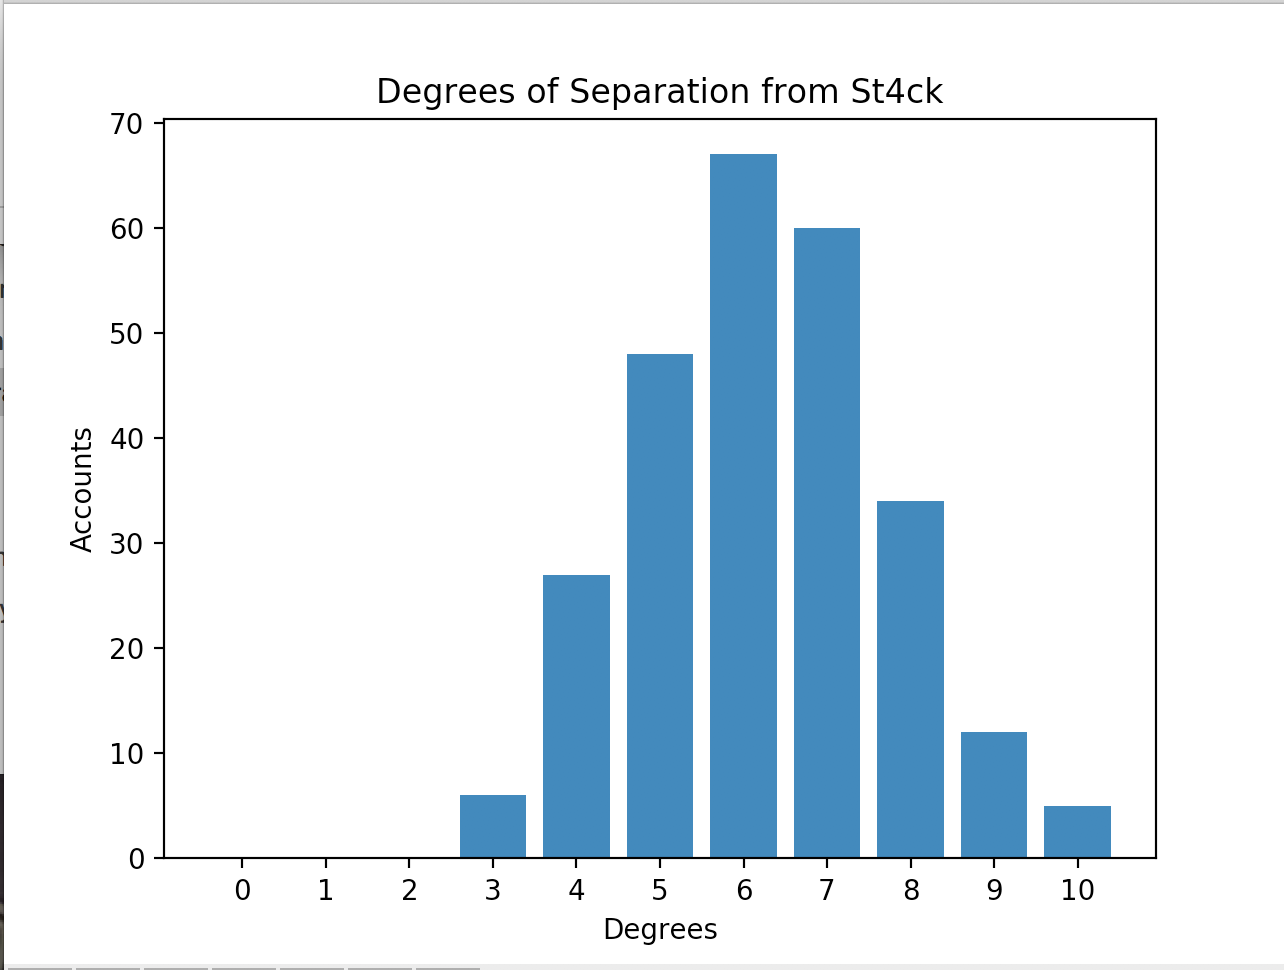
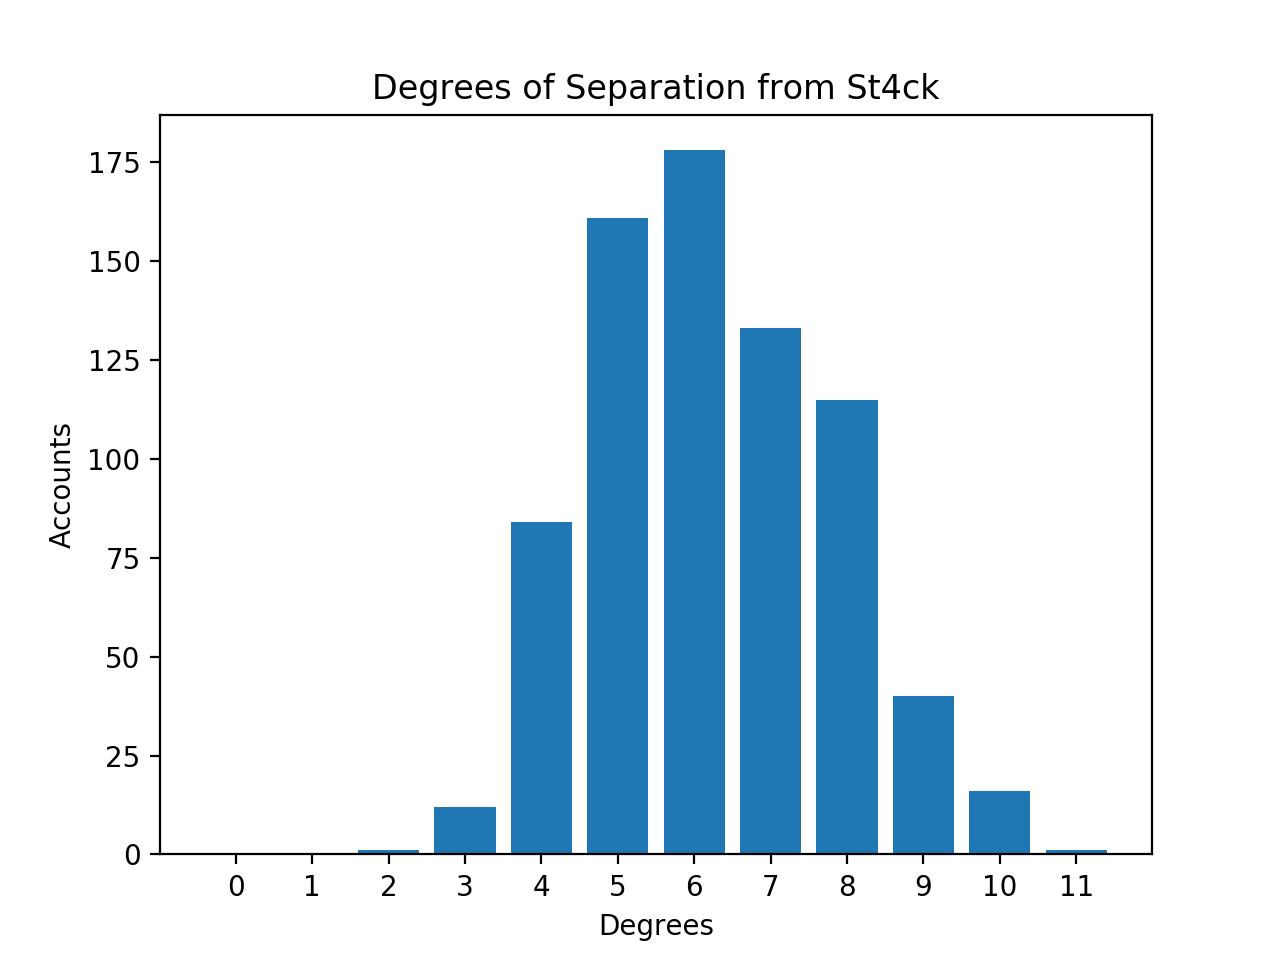
allow programs to be run on command line
charts with more data

diff --git a/st4ck.py b/st4ck.py
@@ -1,6 +1,8 @@
 import requests
 from bs4 import BeautifulSoup
 import random
+import json
+import sys
 
 
 def steamIdFormula(z, v=0x0110000100000000, y=1):
@@ -16,22 +18,21 @@ def steamIdFormula(z, v=0x0110000100000000, y=1):
     return z * 2 + v + y
 
 
-def analyzeOne():
+def analyzeOne(filename):
     """Analyze one steam account.
     Returns:
         Dictionary with:
         toSt4ck (bool) - whether the account led to St4ck or not
         degrees (int) - number of accounts tested
-        path - path of accounts tested
-        level - level of account analyzed
+        path (dict) - path of accounts tested and their levels
+        level (int) - level of account analyzed
     """
-    # Record accounts that deadend (don't lead to St4ck)
     while True:
         account = BeautifulSoup(requests.get("https://steamcommunity.com/profiles/{}".format(
             steamIdFormula(random.randint(1, 99999999)))).text, "html.parser")
 
         if not account.find(class_="actual_persona_name") or account.find(class_="profile_private_info") or not account.find(class_="friendBlockLinkOverlay"):
-            # Skip the user if unregistered or account is private or has no friends
+            # Ignore the account if unregistered, account is private or has no friends
             continue
 
         path = {}
@@ -44,6 +45,18 @@ def analyzeOne():
 
             if account.find(class_="actual_persona_name").text in path or not account.find(class_="friendBlockLinkOverlay"):
                 # Stop if we"re looping back to previous accounts or if we run into a private account
+                try:
+                    file_data = json.load(open(filename))
+                except FileNotFoundError:
+                    with open(filename, 'w') as file:
+                        file.write(json.dumps([]))
+                        file_data = []
+
+                with open(filename, 'w') as file:
+                    file.write(json.dumps(file_data + [{"toSt4ck": False,
+                                                        "degrees": len(path),
+                                                        "path": path,
+                                                        "level": level}]))
                 return {"toSt4ck": False,
                         "degrees": len(path),
                         "path": path,
@@ -52,7 +65,34 @@ def analyzeOne():
             path[account.find(class_="actual_persona_name").text] = int(
                 account.find(class_="friendPlayerLevelNum").text)
 
+        try:
+            file_data = json.load(open(filename))
+        except FileNotFoundError:
+            with open(filename, 'w') as file:
+                file.write(json.dumps([]))
+                file_data = []
+
+        with open(filename, 'w') as file:
+            file.write(json.dumps(file_data + [{"toSt4ck": False,
+                                                "degrees": len(path),
+                                                "path": path,
+                                                "level": level}]))
+
         return {"toSt4ck": True,
                 "degrees": len(path),
                 "path": path,
                 "level": level}
+
+
+if __name__ == '__main__':
+    if sys.argv[1:]:
+        try:
+            for x in range(int(sys.argv[1])):
+                analyzeOne(sys.argv[2] if sys.argv[2].endswith(
+                    '.json') else '{}.json'.format(sys.argv[2]))
+        except Exception:
+            print(
+                'Usage:\npython st4ck.py <# of accounts> <filename for data>')
+    else:
+        print(
+            'Usage:\npython st4ck.py <# of accounts> <filename for data>')

diff --git a/sankey.py b/sankey.py
@@ -1,0 +1,68 @@
+import plotly.plotly as py
+import json
+import sys
+
+
+def graph_sankey(data):
+    labels = list(
+        set([a for p in data for a in list(p["path"].keys())]))
+
+    links = {}
+
+    for p in data:
+        for a in list(p["path"].keys())[:-1]:
+            if (a, list(p["path"].keys())[list(p["path"].keys()).index(a) + 1]) in links:
+                links[(a, list(p["path"].keys())[
+                       list(p["path"].keys()).index(a) + 1])] += 1
+            else:
+                links[(a, list(p["path"].keys())[
+                       list(p["path"].keys()).index(a) + 1])] = 1
+
+    indexed_links = [
+        [labels.index(x[0]), labels.index(x[1]), links[x]] for x in links]
+
+    source = [x[0] for x in indexed_links]
+    target = [x[1] for x in indexed_links]
+    value = [x[2] for x in indexed_links]
+
+    data = dict(
+        type="sankey",
+        node=dict(
+            pad=15,
+            thickness=20,
+            line=dict(
+                color="black",
+                width=0.5
+            ),
+            label=labels,
+            color=["blue" for x in range(len(labels))]
+        ),
+        link=dict(
+            source=source,
+            target=target,
+            value=value
+        )
+    )
+
+    layout = dict(
+        title="The Path to St4ck",
+        font=dict(
+            size=10
+        )
+    )
+
+    fig = dict(data=[data], layout=layout)
+    py.iplot(fig, validate=False)
+
+
+if __name__ == '__main___':
+    if sys.argv[1:]:
+        try:
+            graph_sankey(json.load(open(sys.argv[1])) if sys.argv[1].endswith(
+                '.json') else json.load(open('{}.json'.format(sys.argv[1]))))
+        except Exception:
+            print(
+                'Usage:\npython sankey.py <filename>')
+    else:
+        print(
+            'Usage:\npython sankey.py <filename>')

diff --git a/bar.py b/bar.py
@@ -1,0 +1,29 @@
+import matplotlib.pyplot as plt
+import json
+import sys
+
+
+def graph_bar(data):
+    degrees = [account["degrees"]
+               for account in data if account['toSt4ck']]
+    sorted_degrees = [degrees.count(x) for x in range(max(degrees))]
+
+    plt.bar(range(len(sorted_degrees)), sorted_degrees)
+    plt.xticks(range(len(sorted_degrees)), range(max(degrees)))
+    plt.title("Degrees of Separation from St4ck")
+    plt.xlabel("Degrees")
+    plt.ylabel("Accounts")
+    plt.show()
+
+
+if __name__ == '__main__':
+    if sys.argv[1:]:
+        try:
+            graph_bar(json.load(open(sys.argv[1])) if sys.argv[1].endswith(
+                '.json') else json.load(open('{}.json'.format(sys.argv[1]))))
+        except Exception:
+            print(
+                'Usage:\npython bar.py <filename>')
+    else:
+        print(
+            'Usage:\npython bar.py <filename>')

diff --git a/pie.py b/pie.py
@@ -1,0 +1,29 @@
+import matplotlib.pyplot as plt
+import json
+import sys
+
+
+def graph_pie(data):
+    labels = 'To St4ck', 'Not To St4ck'
+    sizes = [len([account for account in data if account['toSt4ck']]), len(
+        [account for account in data if not account['toSt4ck']])]
+    colors = ['lightblue', 'red']
+
+    plt.pie(sizes, labels=labels, colors=colors,
+            autopct='%1.1f%%', shadow=True, startangle=140)
+
+    plt.axis('equal')
+    plt.show()
+
+
+if __name__ == '__main__':
+    if sys.argv[1:]:
+        try:
+            graph_pie(json.load(open(sys.argv[1])) if sys.argv[1].endswith(
+                '.json') else json.load(open('{}.json'.format(sys.argv[1]))))
+        except Exception:
+            print(
+                'Usage:\npython pie.py <filename>')
+    else:
+        print(
+            'Usage:\npython pie.py <filename>')

diff --git a/line.py b/line.py
@@ -1,0 +1,27 @@
+import matplotlib.pyplot as plt
+import json
+import sys
+
+
+def graph_line(data):
+    for a in data:
+        plt.plot(range(len(a["path"])), list(a["path"].values()))
+
+    plt.xlabel('Degrees')
+    plt.ylabel('Level')
+    plt.title('Level over Degrees from St4ck')
+
+    plt.show()
+
+
+if __name__ == '__main__':
+    if sys.argv[1:]:
+        try:
+            graph_line(json.load(open(sys.argv[1])) if sys.argv[1].endswith(
+                '.json') else json.load(open('{}.json'.format(sys.argv[1])))).show()
+        except Exception:
+            print(
+                'Usage:\npython line.py <filename>')
+    else:
+        print(
+            'Usage:\npython line.py <filename>')

diff --git a/README.md b/README.md
@@ -1,14 +1,19 @@
 # st4ck analysis
 
-```degreesfromst4ck.py``` is a basic scraper that gets a random Steam account and then follows the highest-level friend until it reaches the highest level Steam user, St4ck, or runs into a private account or an account it's seen before. 
+Have you ever noticed that if you continuously follow your highest-level steam friend and then their highest-level steam friend and so on, most of the time, you'll find St4ck, the highest level Steam account, at the top of the pile?
 
-To use it, install the requirements with ```pip install -r requirements.txt```.
+```st4ck.py``` gets a random Steam account and follows this method to see if it'll reach St4ck or not.
 
-The script has a basic scraping function that can be run however you want, whether that be in a loop, or with multiprocessing/ threading.
 
-After getting some results, write them to a ```.json``` file, then move it to the graphing folder, install the graphing requirements, and run any of the graphing examples: ```pie.py```, ```bar.py```, and ```sankey.py```. 
+## How to Use
 
-The pie and bar charts use matplotlib, and the sankey chart uses [plot.ly](https://plot.ly/), so you need to set up your API key before generating the sankey chart.
+First, install the required packages with ```pip install -r requirements.txt```.
+
+Next, get some results with ```python3 st4ck.py <# of accounts> <filename for data>```
+
+After getting some results, run any of the graphing examples: ```pie.py```, ```line.py```, ```bar.py```, and ```sankey.py``` like this: ```python3 line.py <filename with the data>```
+
+The pie, bar, and line charts use matplotlib, but the sankey chart uses [plot.ly](https://plot.ly/) so you'll need to set up your API key before generating the sankey chart.
 
 ```bar.py```:
 ![bar.png](https://github.com/kajchang/degrees-from-st4ck/raw/master/graphing/bar.png)
@@ -29,5 +34,3 @@ Shows the flow of users to St4ck, it's hard to see in a single image because of 
 ![line.png](https://github.com/kajchang/degrees-from-st4ck/raw/master/graphing/line.png)
 
 Shows how the level rises as the accounts get closer to St4ck.
-
-I hope this entertained you!
